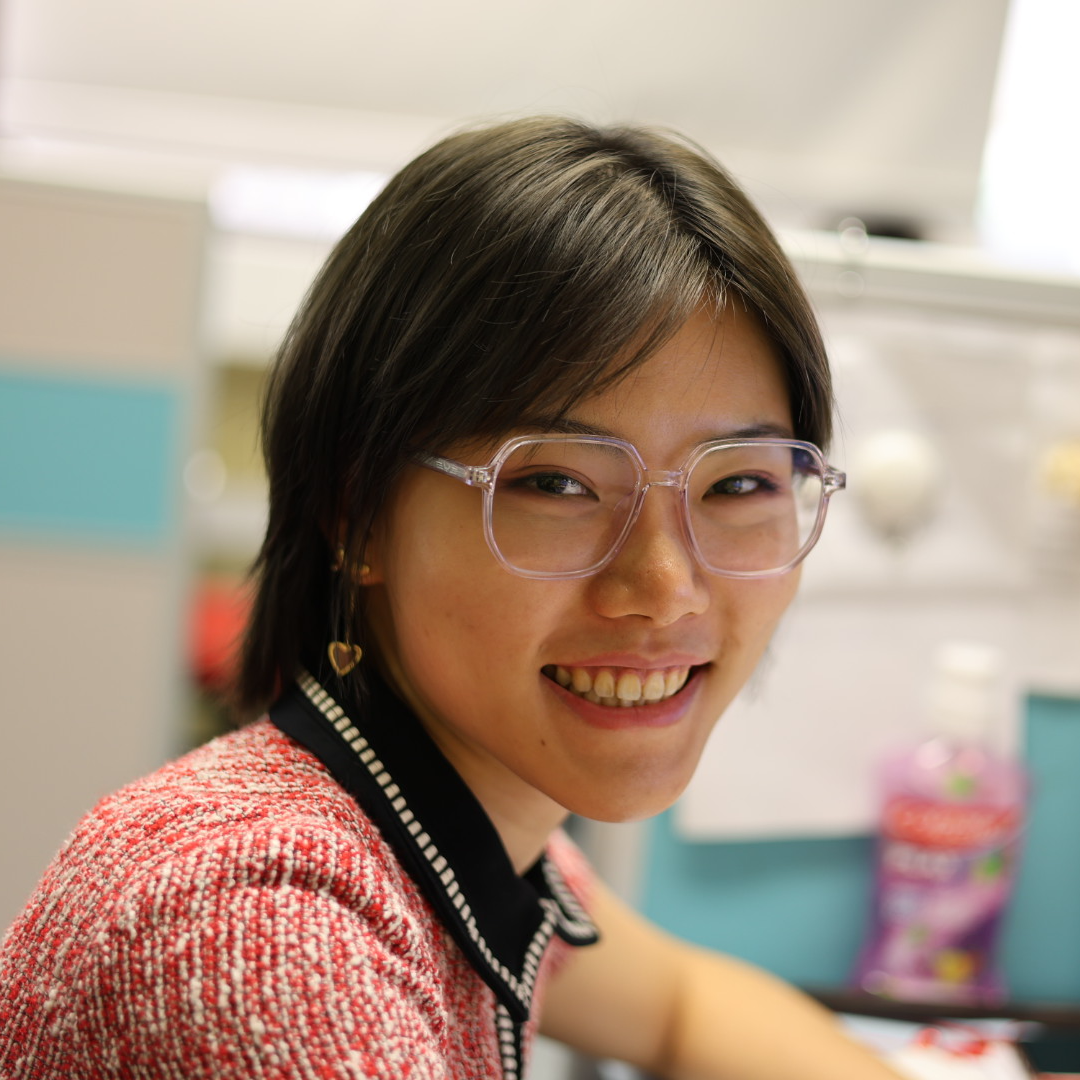
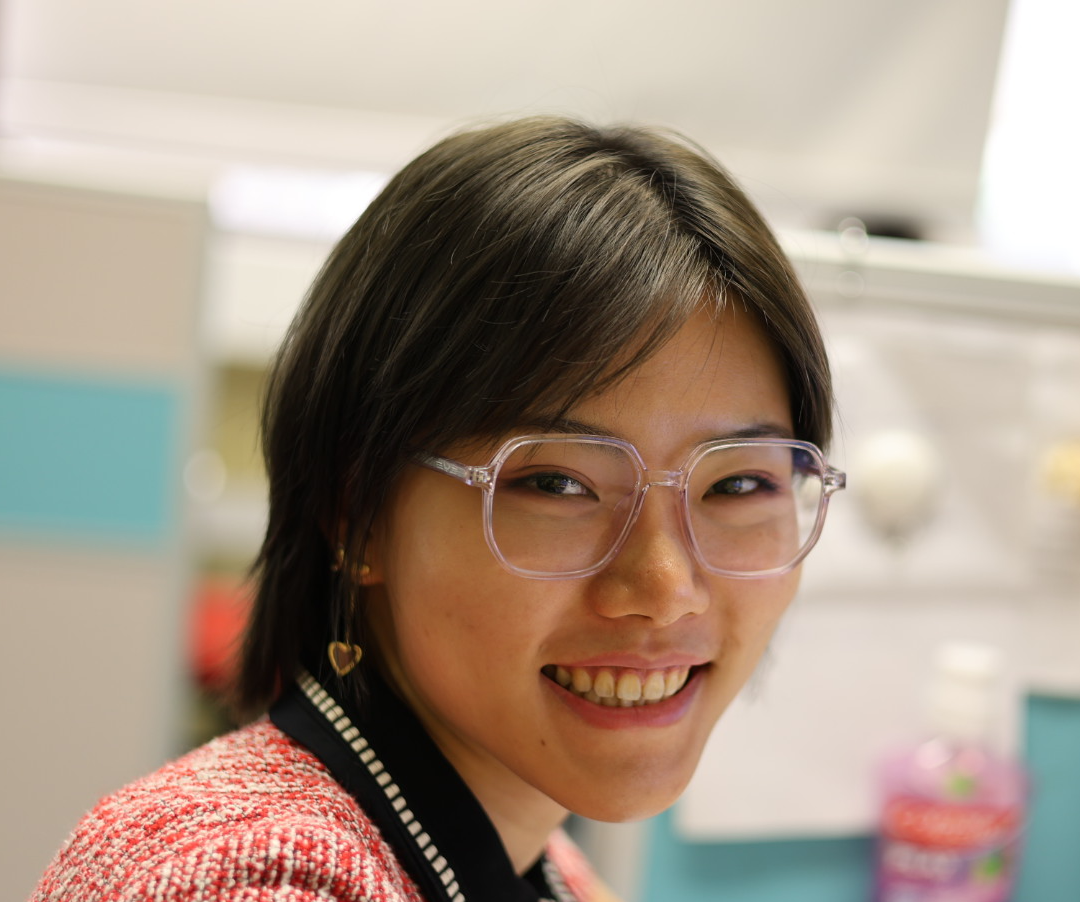
edit

diff --git a/people.html b/people.html
@@ -118,7 +118,7 @@
                 </div>
                 <!-- Kaishuai Xu | Medical Dialogue Systems-->
                 <div class="person-card">
-                    <img src="images/maggie.jpg" alt="Kaishuai Xu" class="person-image">
+                    <img src="images/kaishuai.jpg" alt="Kaishuai Xu" class="person-image">
                     <h3><a class="text-link" href="https://kaishxu.github.io/" target="_blank">Kaishuai Xu</a></h3>
                     <p>Medical Dialogue Systems<br><em>2021-2024</em></p>
                 </div>
